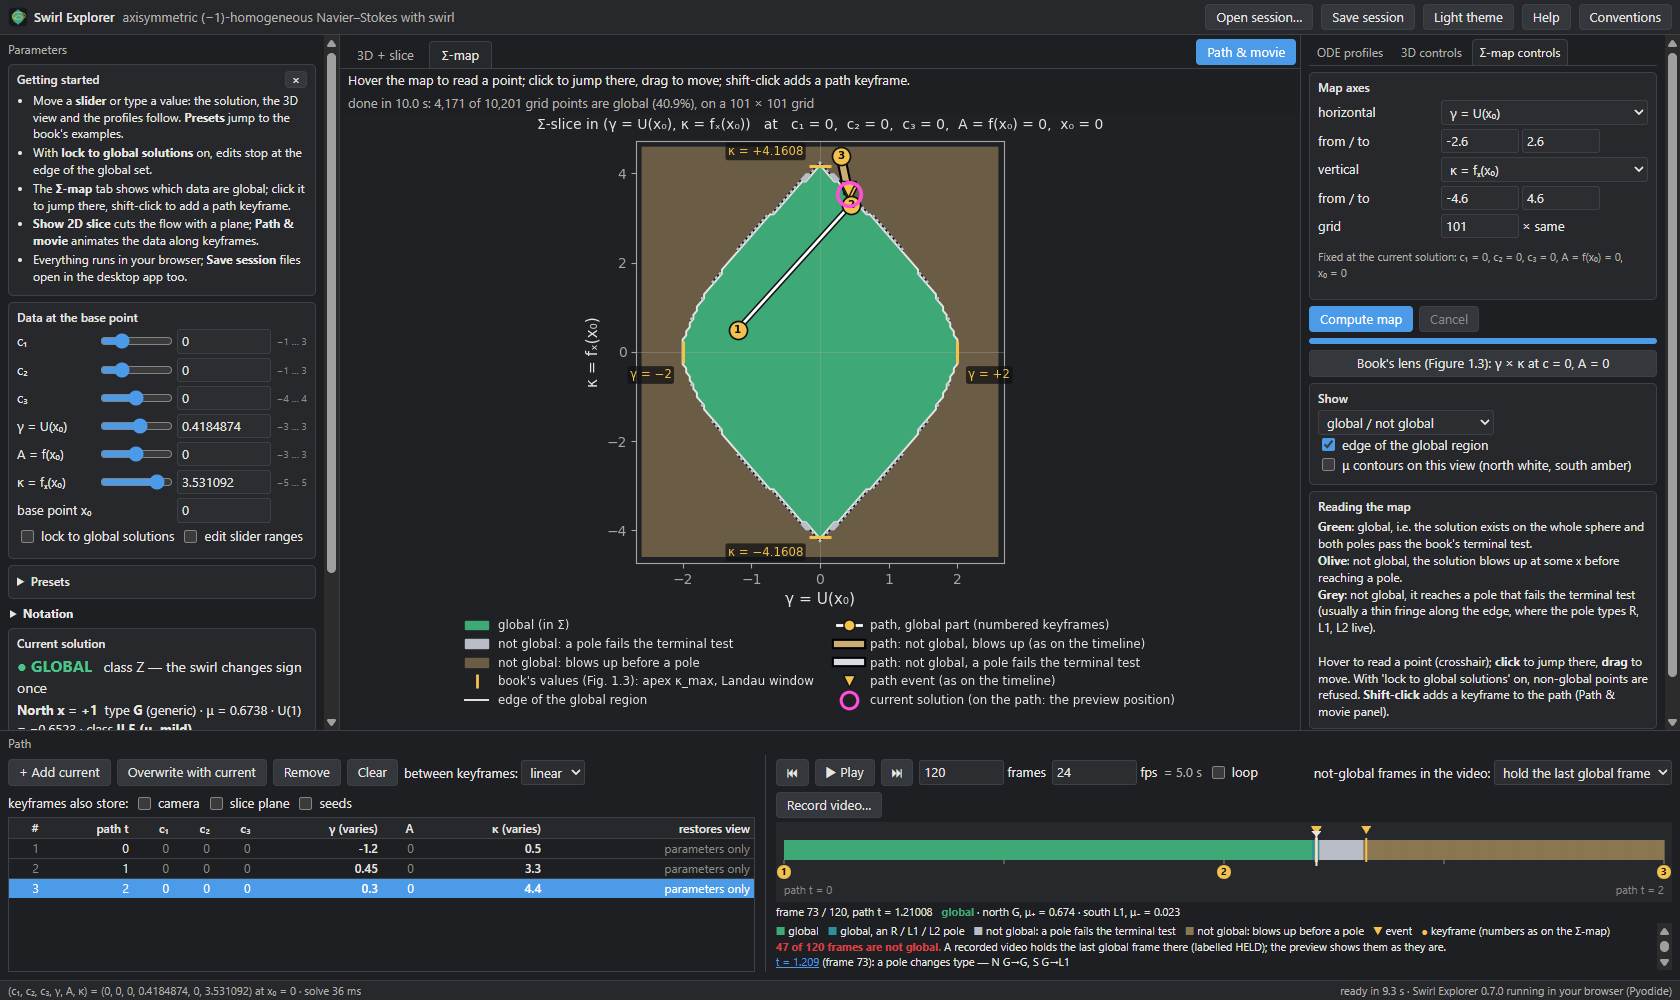
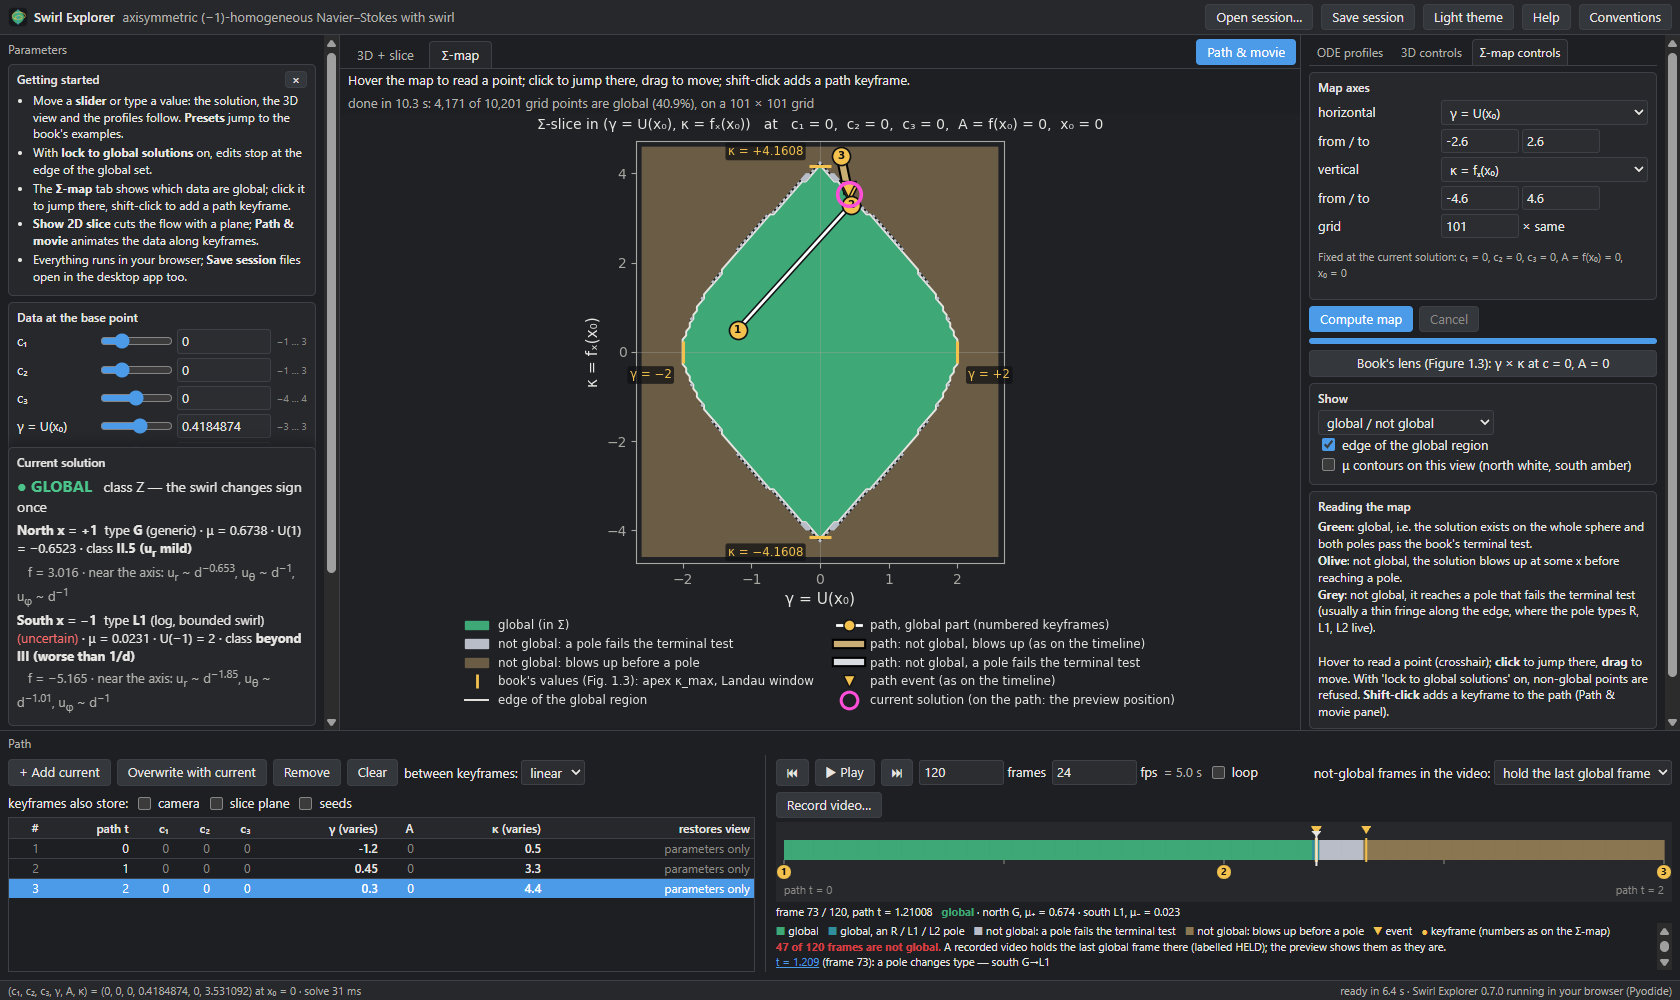
Web version, final review fixes: status pinned in view, pole-change events name only the changed pole
Visual review rounds for the web version: 7, 7, 7, 8, 7, 7 (six-round limit);
the last round's quick fixes applied without re-review.

Changed region(s): [[0.0, 0.434, 0.1857, 0.744], [0.5881, 0.961, 0.619, 0.992]]

diff --git a/site/app.js b/site/app.js
@@ -724,6 +724,7 @@ async function main() {
   let introOff = false;
   try { introOff = localStorage.getItem("swirl.intro") === "off"; } catch (e) { /* storage blocked */ }
   $("intro").hidden = introOff;
+  if (!introOff) $("notation").open = false;         // keep the status in view next to the card
   $("intro-close").addEventListener("click", () => { $("intro").hidden = true; try { localStorage.setItem("swirl.intro", "off"); } catch (e) {} });
   $("btn-intro").addEventListener("click", () => { $("intro").hidden = false; $("left").scrollTop = 0; });
   // the path panel's height can be dragged, like the desktop's dock splitter

diff --git a/site/style.css b/site/style.css
@@ -79,6 +79,7 @@ button.x { padding: 0 6px; line-height: 1.2; }
 .notation { font-size: 12px; margin: 6px 2px; }
 .notation summary { cursor: pointer; }
 .status #st-head { font-size: 14px; margin-bottom: 4px; }
+#left .status { position: sticky; bottom: 0; z-index: 1; box-shadow: 0 -6px 10px var(--window); }
 .status #st-north, .status #st-south { font-size: 13px; margin: 3px 0; }
 
 /* tabs */

diff --git a/swirl_explorer/core/paths.py b/swirl_explorer/core/paths.py
@@ -277,8 +277,9 @@ def scan_path(path: ParamPath, n_frames: int, xi_max: float = 14.0, rtol: float 
             elif not prev.is_global and fs.is_global:
                 events.append(PathEvent(i, te, "enters_global", f"N {fs.north}, S {fs.south}"))
             elif fs.is_global:
-                events.append(PathEvent(i, te, "stratum_change",
-                                        f"N {prev.north}->{fs.north}, S {prev.south}->{fs.south}"))
+                changed = [f"{side} {a}->{b}" for side, a, b in (("north", prev.north, fs.north),
+                                                                  ("south", prev.south, fs.south)) if a != b]
+                events.append(PathEvent(i, te, "stratum_change", ", ".join(changed)))
             else:
                 events.append(PathEvent(i, te, "failure_change", _why(fs)))
         frames.append(fs)

diff --git a/docs/web_version.md b/docs/web_version.md
@@ -48,8 +48,8 @@ workers from `file://` addresses.
 ## Differences from the desktop app
 
 - **Speed:** the first visit downloads about 40 MB (Pyodide and the scientific packages); the
-  browser caches them. Computing is about 4–5 times slower than the desktop app: a solve takes about
-  0.1 s, a 61 × 61 Σ-map about 10 s.
+  browser caches them. The page is ready after about 6–10 s. Computing is about 4–5 times slower
+  than the desktop app: a solve takes 30–130 ms, a 101 × 101 Σ-map about 10 s on a 6-core machine.
 - **Seeds and the slice plane:** there are no drag handles; type the positions instead.
 - **3D layers:** the 3D view has no arrow glyphs and no isosurfaces.
 - **Movies:** *Record video* captures the 3D view along the path, with the same caption strip, as

diff --git a/README.md b/README.md
@@ -60,7 +60,8 @@ equations with swirl*, which is in `docs/`.
 
 - Milestone 7: the Windows build (see below).
 - The browser version: the same Python code runs in the visitor's browser (Pyodide), published
-  with GitHub Pages. See [docs/web_version.md](docs/web_version.md).
+  with GitHub Pages. See [docs/web_version.md](docs/web_version.md). Screenshots:
+  `docs/figures/web_*.png` (made by `scripts/web_screenshots.py` with headless Chrome).
 
 Effective coordinates and continuation (milestone 8) come later.
 
